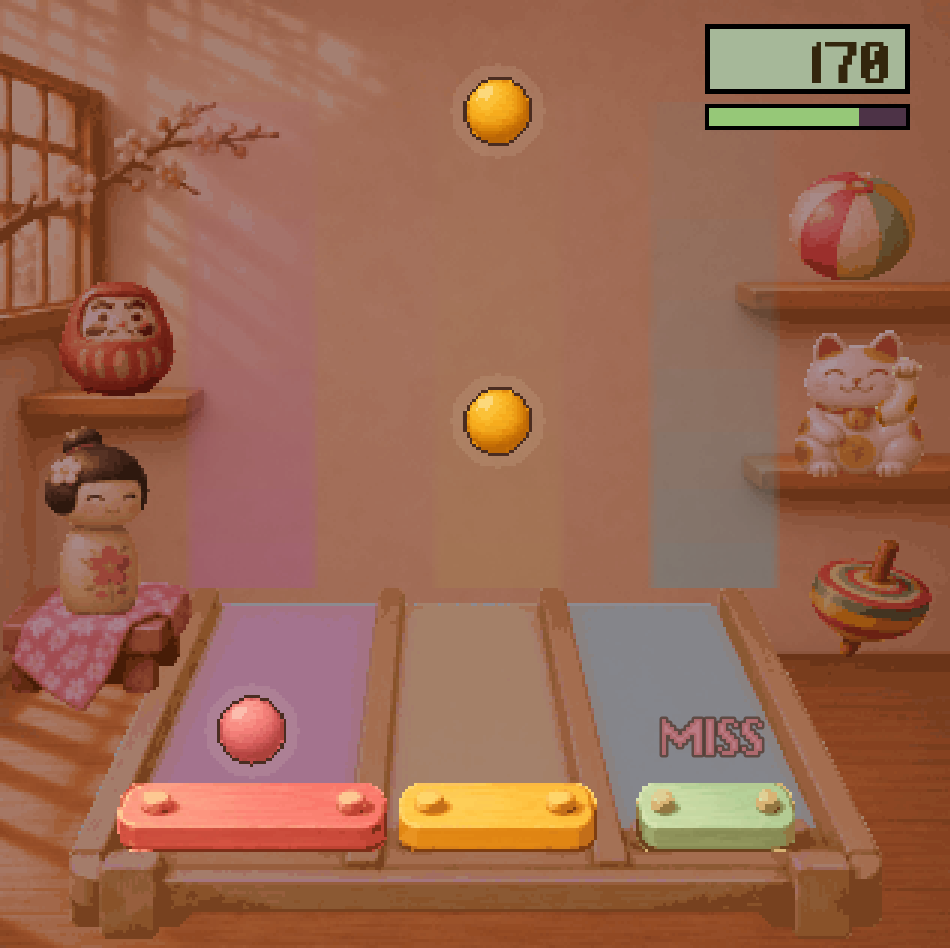
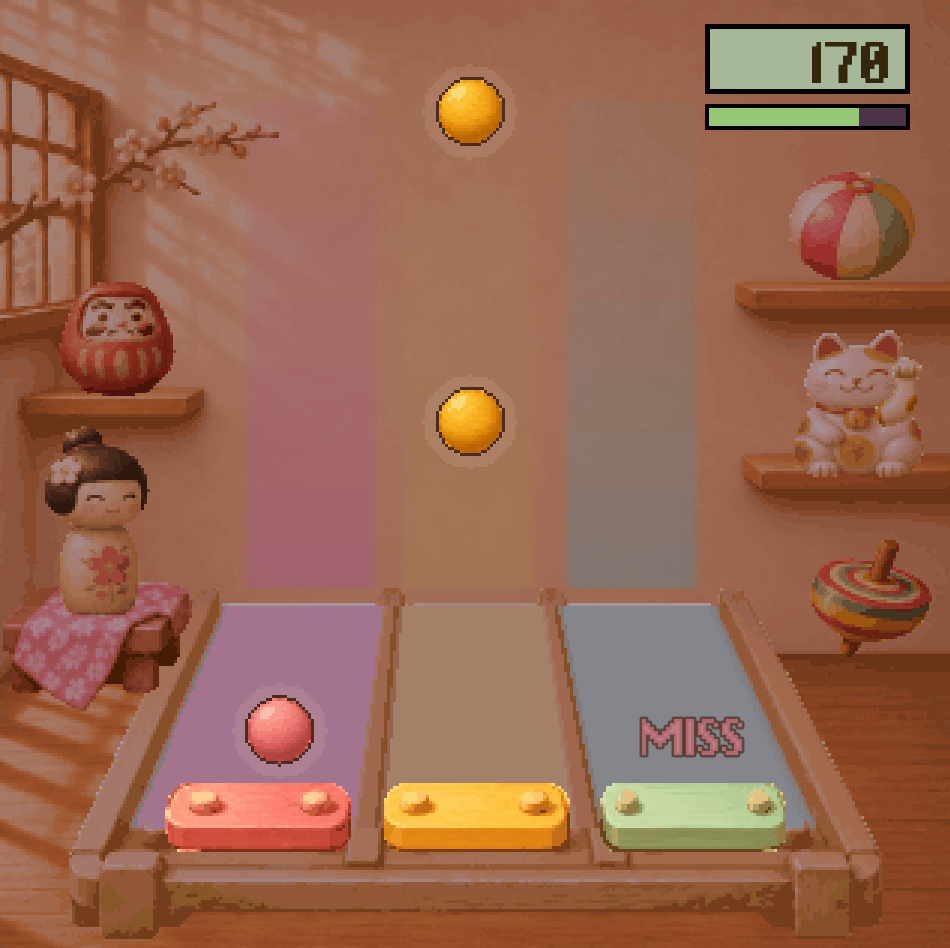
Tomo Tunes world 1: the three bars at one size and the lanes lined up with them, tray repainted with equal lanes by the tool (the user: the keys should be same size and note lanes more aligned). docs/handbook.md: how the work is done (rules, commands, art standard, recipes, traps), for whoever conti

diff --git a/tools/design/tunes_world.py b/tools/design/tunes_world.py
@@ -25,8 +25,9 @@ LAYERS = ['room', 'xylophone', 'toy_kokeshi_bench', 'toy_kokeshi', 'toy_daruma',
           'toy_top', 'bar_low', 'bar_mid', 'bar_high', 'bar_low_lit', 'bar_mid_lit', 'bar_high_lit',
           'note_low', 'note_mid', 'note_high', 'note_gold', 'mallet']
 OUTLINE = (74, 44, 32)
-LANES = {'low': (505, (246, 150, 180)), 'mid': (995, (250, 206, 110)), 'high': (1430, (150, 220, 190))}   # the bars' centres (painted px)
-LANE_W, LANE_TOP, LANE_BOTTOM = 46, 34, 196       # art px: the wall above the tray
+LANES = {'low': (246, 150, 180), 'mid': (250, 206, 110), 'high': (150, 220, 190)}   # the wall lanes' colours
+BAR_W = 62                            # art px: the three bars at ONE size (the user, 2026-11-13); the designer's were 90, 66 and 53
+LANE_TOP, LANE_BOTTOM = 34, 196       # art px: the wall above the tray
 
 
 def small(name):
@@ -51,12 +52,74 @@ def outlined(rgb, mask):
     return rgb, grown
 
 
+def even_tray(rgb, mask):
+    """The xylophone's tray repainted with three EQUAL lanes (the user, 2026-11-13: "the keys should be the same size
+    and the note lanes more aligned with those"; the designer's lanes were 3 different widths). The outer rails, the
+    front beam and the corner blocks stay as painted; between the rails, row by row, the tray is split in thirds
+    with two wooden dividers. Returns the picture and, per row, the tray's inner left and right edge."""
+    rgb = rgb.copy()
+    px = rgb * 255
+    paint = np.array([[249, 192, 190], [250, 214, 142], [203, 224, 188]], np.float32)       # the three lanes as painted
+    d = np.abs(px[:, :, None, :] - paint[None, None]).sum(3)
+    which = d.argmin(2)
+    near = mask & (d.min(2) < 30)
+    pink, mint = near & (which == 0), near & (which == 2)       # (the yellow is too close to the wood's highlights to find edges with)
+    lane = pink | mint | (near & (which == 1))
+    cols = [np.median(rgb[near & (which == k)], 0) for k in range(3)]
+    seen = [y for y in range(H) if pink[y].sum() > 30 and mint[y].sum() > 30]
+    fl = np.polyfit(seen, [np.nonzero(pink[y])[0].min() for y in seen], 1)        # the tray's inner left edge, row by row
+    fr = np.polyfit(seen, [np.nonzero(mint[y])[0].max() + 1 for y in seen], 1)    # and its inner right edge
+    rows = list(range(seen[0], seen[-1] + 1))
+    wood = rgb[mask & ~lane]
+    lum = wood.sum(1)
+    tone = [np.median(wood[(lum >= np.percentile(lum, a)) & (lum <= np.percentile(lum, b))], 0) for a, b in ((85, 99), (45, 70), (8, 25))]
+    edges = {}
+    for y in rows:
+        L, R = float(np.polyval(fl, y)), float(np.polyval(fr, y))
+        edges[y] = (L, R)
+        half = 2.6 + 1.6 * (y - rows[0]) / (rows[-1] - rows[0])                              # a divider is wider near us
+        for x in range(int(np.ceil(L)), int(R)):
+            u = (x + 0.5 - L) / (R - L)
+            c = cols[min(2, int(u * 3))]
+            for k in (1, 2):
+                off = x + 0.5 - (L + (R - L) * k / 3.0)
+                if abs(off) <= half:
+                    c = tone[0] if off < -half + 1.2 else (tone[2] if off > half - 1.5 else tone[1])
+                elif half < off <= half + 1.5:
+                    c = c * 0.88                                                                # its shadow on the lane
+            rgb[y, x] = c
+            mask[y, x] = True
+    return rgb, mask, edges
+
+
+def same_size(rgb, mask, cx):
+    """a bar at BAR_W, centred on cx: its two ends kept (the pegs), the middle cut or stretched"""
+    xs = np.nonzero(mask.any(0))[0]; x0, x1 = xs.min(), xs.max() + 1
+    cap = min(20, (x1 - x0) // 2 - 2)
+    mid = x0 + cap + (np.arange(BAR_W - 2 * cap) * (x1 - x0 - 2 * cap) / (BAR_W - 2 * cap)).astype(int)
+    cols = np.concatenate([np.arange(x0, x0 + cap), mid, np.arange(x1 - cap, x1)])
+    cut = lambda a: a[:, cols]
+    out, om = np.zeros_like(rgb), np.zeros_like(mask)
+    left = int(round(cx - BAR_W / 2))
+    out[:, left:left + BAR_W] = cut(rgb)
+    om[:, left:left + BAR_W] = cut(mask)
+    return out, om
+
+
 def main():
     os.makedirs(OUT, exist_ok=True)
     got = {n: small(n) for n in LAYERS}
+    rgb, mask, edges = even_tray(*got['xylophone'])
+    got['xylophone'] = (rgb, mask)
+    top = min(edges)
+    bar_y = int(np.nonzero(got['bar_mid'][1].any(1))[0].mean())            # the row the bars lie on
+    centre = lambda y, k: edges[y][0] + (edges[y][1] - edges[y][0]) * (2 * k + 1) / 6.0
+    bar_row = min(max(edges), bar_y)
     for n in LAYERS:
         if n.startswith('note_'):
             got[n] = outlined(*got[n])
+        if n.startswith('bar_'):
+            got[n] = same_size(*got[n], centre(bar_row, ['low', 'mid', 'high'].index(n.split('_')[1])))
     layout = {}
     for n, (rgb, mask) in got.items():
         # each layer keeps its own few colours (a palette shared by the whole world went to the room's browns and
@@ -69,7 +132,9 @@ def main():
         im.crop(box).save(os.path.join(OUT, n + '.png'))
         layout[n] = [box[0], box[1], box[2] - box[0], box[3] - box[1]]
     # the lanes on the wall: light falling down it, soft at the sides, gone at the top (alpha in 8 steps: pixel art)
-    for name, (cx, col) in LANES.items():
+    LANE_W = int((edges[top][1] - edges[top][0]) / 3.0) - 6             # the wall's lanes carry on from the tray's
+    for k, (name, col) in enumerate(LANES.items()):
+        cx = centre(top, k)
         h = LANE_BOTTOM - LANE_TOP
         y = np.linspace(0, 1, h)[:, None]
         x = np.abs(np.linspace(-1, 1, LANE_W))[None, :]
@@ -77,14 +142,18 @@ def main():
         a = np.round(a * 16) / 16
         im = np.zeros((h, LANE_W, 4), np.uint8); im[..., :3] = col; im[..., 3] = (a * 255).astype(np.uint8)
         Image.fromarray(im, 'RGBA').save(os.path.join(OUT, f'lane_{name}.png'))
-        layout[f'lane_{name}'] = [round(cx / 6) - LANE_W // 2, LANE_TOP, LANE_W, h]
+        layout[f'lane_{name}'] = [int(round(cx - LANE_W / 2)), LANE_TOP, LANE_W, h]
     # the glow behind a falling note
     g = 40
     d = np.hypot(*np.meshgrid(np.arange(g) - g / 2 + 0.5, np.arange(g) - g / 2 + 0.5))
     a = np.round(np.clip(1.0 - d / (g / 2), 0, 1) ** 1.6 * 0.55 * 10) / 10
     im = np.zeros((g, g, 4), np.uint8); im[..., :3] = (255, 246, 214); im[..., 3] = (a * 255).astype(np.uint8)
     Image.fromarray(im, 'RGBA').save(os.path.join(OUT, 'glow.png'))
-    layout['lanes_x'] = [round(c / 6) for c, _ in LANES.values()]
+    # a note's path: straight down the wall's lane, then along the tray's lane (it narrows away from us) onto its bar
+    layout['lanes_x_top'] = [round(centre(top, k), 2) for k in range(3)]
+    layout['lanes_x'] = [round(centre(bar_row, k), 2) for k in range(3)]
+    layout['tray_top'] = top
+    layout['bar_y'] = bar_y
     with open(os.path.join(OUT, 'layout.json'), 'w') as f:
         json.dump(layout, f, indent=1)
     print(f'{len(got)} layers + 3 lanes + glow -> {os.path.relpath(OUT, ROOT)}')

diff --git a/docs/handbook.md b/docs/handbook.md
@@ -1,0 +1,145 @@
+# The handbook: how the work is done here (standards, recipes, traps)
+
+Written 13 November 2026 so that anyone picking the project up (a person or any AI model) works the
+same way. **What to do next** is in `docs/ideas_roadmap.md` (its top). **How to do it** is here.
+When a rule here and an older note disagree, this file and the roadmap's top win.
+
+## 1. Standing rules (the user's, never to be broken)
+
+1. **Status comes from the code and git, never from notes.** Before saying "done" or "pending",
+   look (`git log`, grep the code). Notes go stale; the spirits' art was once called unfinished
+   from an old note when all 120 were in the game.
+2. **Questions get answers, not actions.** "Would you merge?" is a question.
+3. **Ask before merging to `main`.** Work happens on `yokai-migration`. `main` is the October
+   game, tagged `gut-era-2026-10-19`.
+4. **Never delete old art or old versions** from this repo: it is the history. A clean repo comes
+   later, built to match the live app exactly.
+5. **No `Co-Authored-By` or AI trailers** in commits or PRs.
+6. **Show before installing.** A designer's delivery, or a new look, is shown to the user (a
+   screenshot in `docs/mockups/...`) and gets their OK before it goes on the phone.
+7. **The designer never touches** `textures/`, `scenes/`, `scripts/` or `data/`. Deliveries land in
+   `docs/mockups/<topic>/roundN/` and we bring them into the game with a tool.
+8. **The loop (docs/loop_v2.md) stays on paper** until the user says which piece to build.
+9. **Document as you go**: a decision goes into its plan file's "Decided so far" table with the
+   date and the user's words; the roadmap's top is updated when the picture changes.
+10. Temporary files go in the session's scratch folder, never in the repo. Anything worth keeping
+    (a QA script, a tool) is moved into `tools/`.
+
+## 2. Writing style (docs, commits, replies)
+
+- Plain words, full sentences, short. Lead with the answer. No invented labels.
+- Commit message: what changed and why, in one or two sentences, quoting the user's words when the
+  change answers them. Example: `Tomo Tunes: the hard chart keeps only the quick notes three
+  buttons can play (the user: hard gets too hard)`.
+- Code comments say WHY, with the date and the user's words when a rule came from them.
+- Numbers in docs come from running the tool, never from memory.
+
+## 3. The commands
+
+All from the repo's root. `G=/Applications/Godot.app/Contents/MacOS/Godot`. Python is
+`.venv/bin/python` (numpy, scipy, Pillow, soundfile).
+
+| To do | Command |
+|---|---|
+| Import new files (after adding PNG / OGG) | `$G --headless --path . --import` |
+| A screenshot of something | `$G --path . --windowed --always-on-top --resolution 1000x1000 --audio-driver Dummy res://tools/qa/preview.tscn -- script=<a .gd that extends Node2D> out=<png> wait=<s>` |
+| Tomo Tunes' look, four screens | the same with `script=res://tools/qa/tunes_look.gd dir=<folder> wait=40` |
+| Export for the phone | `$G --headless --path . --export-debug "iOS" "<scratch>/ios/Poop Pal.ipa"` |
+| Build | in `<scratch>/ios`: `xcodebuild -project "Poop Pal.xcodeproj" -scheme "Poop Pal" -configuration Debug -destination "id=00008130-000115C03661001C" -derivedDataPath dd -allowProvisioningUpdates build` |
+| Install, launch | `xcrun devicectl device install app --device 00008130-000115C03661001C <dd/Build/Products/.../*.app>` then `xcrun devicectl device process launch --device 00008130-000115C03661001C com.xavigrau.pooppal` |
+
+**After every headless Godot run**: `find . -name ".recovery_mode_lock" -delete` (and the same file
+in `~/Library/Application Support/Godot/app_userdata/KamiTomo/`), or the user's editor opens on a
+"crashed" dialog. If a headless run re-saved `project.godot`, `git checkout project.godot` (only
+if it held no real change).
+
+**The phone.** Installs are debug builds: they open on the dev launcher (ALL UNLOCKED opens every
+level). The signing is a free account: a profile lasts 7 days (the current one ends 14 November
+2026, 12:08 UTC). After that, `xcodebuild ... clean build` makes a new one; if it says "No
+Accounts", the user signs in at Xcode > Settings > Accounts, and may have to Trust the developer
+again on the phone. A launch fails when the phone is locked: say so, the user opens the app.
+
+## 4. The art standard
+
+- **Paint big, show small.** Art is painted large (by the designer or a generator) and a tool
+  makes the game's pixel version. Never hand-edit the small files: change the tool and rerun.
+- **Pixel size**: the play area is 950 x 948. Tomo Tunes uses 1 art pixel = 3 screen pixels
+  (the user chose 3 over 4). Textures are drawn with `TEXTURE_FILTER_NEAREST` at an integer scale.
+- **Colours**: each layer keeps its own few colours (a room about 56, a toy or bar 20, a note 12).
+  One shared palette for a whole scene was tried and turned pink and mint bars orange: don't.
+- **Hard alpha** (no half-transparent edge pixels), premultiplied when shrinking so edges don't go dark.
+- **Things the player must read** (notes, the pal) get a dark outline (74, 44, 32) and sit on top.
+- **Living backgrounds**: everything in a scene that can move, moves a little, on the beat or on
+  the action. Still pictures behind a game were rejected in October.
+- **Check a look in the real game**, by screenshot, before showing it; open the PNG and look.
+
+## 5. Recipe: a new Tomo Tunes song
+
+The full reasons are in `docs/tomo_tunes.md` (sections 2, 6c, 6d).
+
+1. The user makes takes in Suno from `docs/tomo_tunes_prompts.md` (made by
+   `tools/audio/suno_prompts.py`: edit the table there, never the .md).
+2. `.venv/bin/python tools/audio/tune_rate.py <takes.mp3>` rates how busy each tune is. The
+   simplest good take is the world's song A, the busiest its D.
+3. The user splits the chosen take (Get Stems, Split from Mix, the world's instrument) and puts
+   the three MP3s in `sounds/tunes/incoming/<id>/` (e.g. `1C/`). The file with "(Without" in its
+   name is the band, the other with "(" is the lead, the plain one is the full song. A full song
+   named "... (1).mp3" confuses this: rename it.
+4. `.venv/bin/python tools/audio/tune_chart.py <id> "<Title>"` writes
+   `sounds/tunes/<id>/lead.ogg`, `backing.ogg` and `data/charts/tunes_<id>.json`. Read its report:
+   - "% of the notes on the grid" under about 75: the tune is loose or the grid is off; listen to
+     `incoming/<id>/check_normal.wav` (a click on every charted note).
+   - "the beats are where the kick is" under 1.3x: check the easy chart by ear.
+   - the band's level: it must end about 6 dB under the lead "as a phone hears it".
+5. Add the id to `TUNES` in `scripts/tummy_tunes.gd`, run `--import`, try it on the Mac, install.
+
+What the tool guarantees (don't undo these):
+- easy = notes on the beats, normal = plus the eighths, hard = plus only the quick notes three
+  buttons can play (`playable()`).
+- A long take is cut where a phrase ends near the slot's length (A 60 s, B 65, C 70, D 80) and
+  the band rings out one more bar.
+- The band is rebuilt for a phone speaker gently: sub-bass nearly out, the bass's harmonics
+  added and levelled. No limiter, no boosted top band (that hissed and clipped).
+
+Prompt lessons (all in `suno_prompts.py`'s comments): short tags, the instrument first, a trio,
+"no new instruments, no build"; drums asked for "clear and present"; never "nursery rhyme" or
+"cute" (kindergarten songs), never "lo-fi" or "catchy hook" (busy, syncopated tunes); say the
+note values ("quarter notes and half notes only") and exclude syncopation in worlds 1-3.
+
+## 6. Recipe: a Tomo Tunes world's art
+
+World 1 (the toy xylophone) is the model. Its brief is `docs/tomo_tunes_art_brief.md`.
+
+1. The designer delivers, in `docs/mockups/tomo_tunes/roundN/`, one mock-up and registered
+   transparent layers on the same 1900 x 1896 canvas: `room`, the instrument's frame, three
+   bars and their `_lit` twins, the toys (anything that moves on its own layer, like the cat's
+   paw), four notes, plus a README.
+2. `.venv/bin/python tools/design/tunes_world.py` makes
+   `textures/minigames/tunes/<world>/*.png` and `layout.json` (each layer's box, the lanes' x at
+   the wall and on the bars, the tray's top). The tool, not the designer's art, is responsible for:
+   - the three bars at ONE size (`BAR_W`), each centred on its lane (the user's rule);
+   - the tray repainted with three equal lanes (`even_tray()`);
+   - the soft lanes on the wall, which carry on from the tray's lanes;
+   - the notes' outline and the glow.
+   For a new world, copy the tool's world-1 settings into a table per world rather than a new script.
+3. `scripts/tummy_tunes.gd` reads `layout.json`: `_layer()` places a layer, `_toys()` moves the
+   toys on the beat, `_flash()` dips a bar on a press, `_strike()` lights it on a hit,
+   `_set_lead()` dims the room while the instrument is silent. A note falls down the wall's lane,
+   then follows the tray's lane onto its bar.
+4. Run `--import`, take the four screens (section 3), look at them, show the user, then install.
+
+Ask the next worlds' designer for **three bars of the same size and three lanes of the same
+width**: world 1 needed the tool to even them out.
+
+## 7. Traps met so far
+
+| Trap | What to do |
+|---|---|
+| Two tweens on the same property fight (the room stayed dim) | keep the tween in a variable and `kill()` it before starting the next |
+| A game's button handlers swallowed the level menu's presses | forward to `super` when `is_game_over or level_menu_open()` |
+| `play_level()` called directly leaves the level menu drawn on top | in QA, start through the menu: press the main button, wait 1.6 s, release |
+| The lead still sounded on a missed note | the lead is muted the moment a note is due and unhit, and comes back on a hit |
+| Suno's tempo wanders and a pickup note shifts the grid | `tune_chart.py` follows the grid note by note and picks the best-fitting start (`best_grid()`) |
+| Publishing the decisions page made a second page | always publish with `url` = the original (see the roadmap's file table) |
+| The phone shows "unavailable" or is locked | retry the install; a failed launch only needs the user to open the app |
+| The editor open during command-line Godot runs can corrupt its UID cache | if the editor floods "Unrecognized UID", restart it; the user accepts installs with the editor open |

diff --git a/docs/tomo_tunes.md b/docs/tomo_tunes.md
@@ -205,6 +205,7 @@ Added 2026-11-13 (the user, after more play: "how the notes of the lead coincide
 | 2026-11-13 | A cut song ends where a phrase ends (the user: "the song finishes before it ends"): the tool picks the bar line near the slot's length where the tune lands and rests, 4-bar phrases first; that downbeat is the last note to play, the band rings out over one more bar. 1A is now 64.9 s, 1B 66.2 s |
 | 2026-11-13 | The hard chart is the normal chart plus only the quick notes three buttons can play (the user: "the hard sometimes gets too hard"): a quick note stays as a two-thumb roll into a note on the neighbouring lane, never under 0.1 s, at most one every two beats (`playable()`). 1B hard: 236 notes to 193. The pixel size for world 1's art: 3 (the user) |
 | 2026-11-13 | World 1's look is in the game's code (not on the phone until the user's OK): `tools/design/tunes_world.py` makes the designer's layers into pixel layers (1 art pixel = 3 on screen, a few colours per layer) in `textures/minigames/tunes/xylophone/`, with our own soft lanes on the wall, outlined notes and a glow. In the game: the lanes sit on the bars' centres, a bar dips on a press and lights on a hit, the toys keep the beat, the room dims while the instrument is silent. Screens: `docs/mockups/tomo_tunes/in_game_world1_play.png`, `_miss.png` |
+| 2026-11-13 | The three bars are one size and the lanes line up with them (the user: "the keys should be same size and note lanes more aligned with those"). The tool does it, not the designer: `BAR_W` = 62 art pixels for every bar, the tray repainted with three equal lanes (`even_tray()`), the wall's lanes carrying on from the tray's, and a note follows the tray's lane onto its bar. The user's verdict on the look: "looks great". The how-to for the next worlds: `docs/handbook.md`, section 6 |
 
 ## 6d. How each new song is made (the workflow)
 

diff --git a/docs/ideas_roadmap.md b/docs/ideas_roadmap.md
@@ -134,6 +134,7 @@ The loop will be built bit by bit (the user, 2026-11-12: it stays on paper for n
 | File | What it is |
 |---|---|
 | `docs/ideas_roadmap.md` (this) | the current picture, then every older note and each game's detail |
+| `docs/handbook.md` | HOW the work is done: the standing rules, the commands, the art standard, the recipes (a song, a world's art), the traps. Read it before working |
 | `docs/loop_v2.md` | the loop as decided: clocks, drinks as powers, care, coins, generations, every cycle in one checklist, the decisions and the review |
 | `docs/games_pass.md` | the stars and powers contract for the six games and the order of the pass |
 | `docs/tomo_tunes.md`, `docs/tomo_tunes_prompts.md` | the music game: the approach, the worlds, the workflow per song; the 24 Suno prompts |
